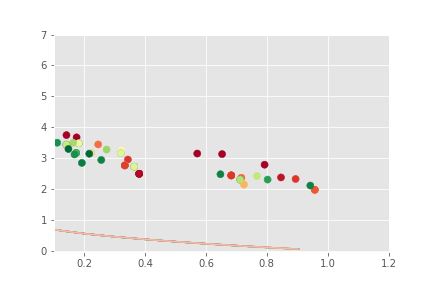
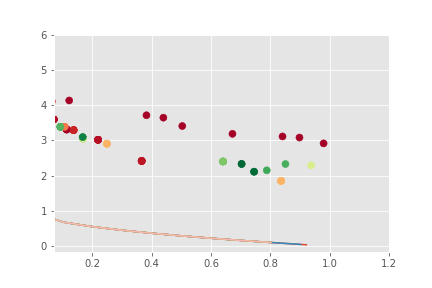
sol

diff --git a/moea-d.py b/moea-d.py
@@ -25,7 +25,7 @@ verbose = True
 ################ INITIALIZATION ################
 lam = generate_lambda_vectors(m)
 B = get_lambda_neighborhoods(lam)
-N = len(lam)
+N = len(lam) # number of subproblems
 subproblem_list = []
 for i in range(N):
     temp_sol = solution.Solution(n,['Continuous']*n,i)
@@ -61,7 +61,7 @@ for generation in range(MAXGEN):
         # check feasibility
         #offspring = repair(offspring)
 
-        ideal_Z = np.minimum(ideal_Z,offspring.objective_val)   # minimizing
+        ideal_Z = np.minimum(ideal_Z,offspring.objective_val)   # minimizing element-wise
         for j in subproblem_list[i].B:
             subproblem_list[j].cur_solution = subproblem_list[j].cur_solution.give_the_best_of(offspring,
                                                                                                subproblem_list[j].lam,
@@ -79,7 +79,7 @@ for generation in range(MAXGEN):
         plot_z1 = np.arange(min(Z1),max(Z1), 0.1)   #f1value
         plot_z2 = [1 - np.sqrt(z1val) for z1val in plot_z1]
         plt.plot(plot_z1, plot_z2)
-        plt.ylim(ymax=7)
+        plt.ylim(ymax=6)
         plt.xlim(xmax=1.2)
 
         plt.savefig('generation%s.png'%generation)

diff --git a/solution.py b/solution.py
@@ -160,7 +160,7 @@ class Solution(object):
 				change = np.random.binomial(1, frequency_of_change)
 				if change == 1:
 					#print(self.x[dimension])
-					evolution.x[dimension] = self.x[dimension] + np.random.normal(0, self.x[dimension]**2 + 1)
+					evolution.x[dimension] = self.x[dimension] + np.random.normal(0, (self.x[dimension]**2)/100)
 
 			elif self.num_type[dimension] == 'Binary':
 				change = np.random.binomial(1, frequency_of_change)
